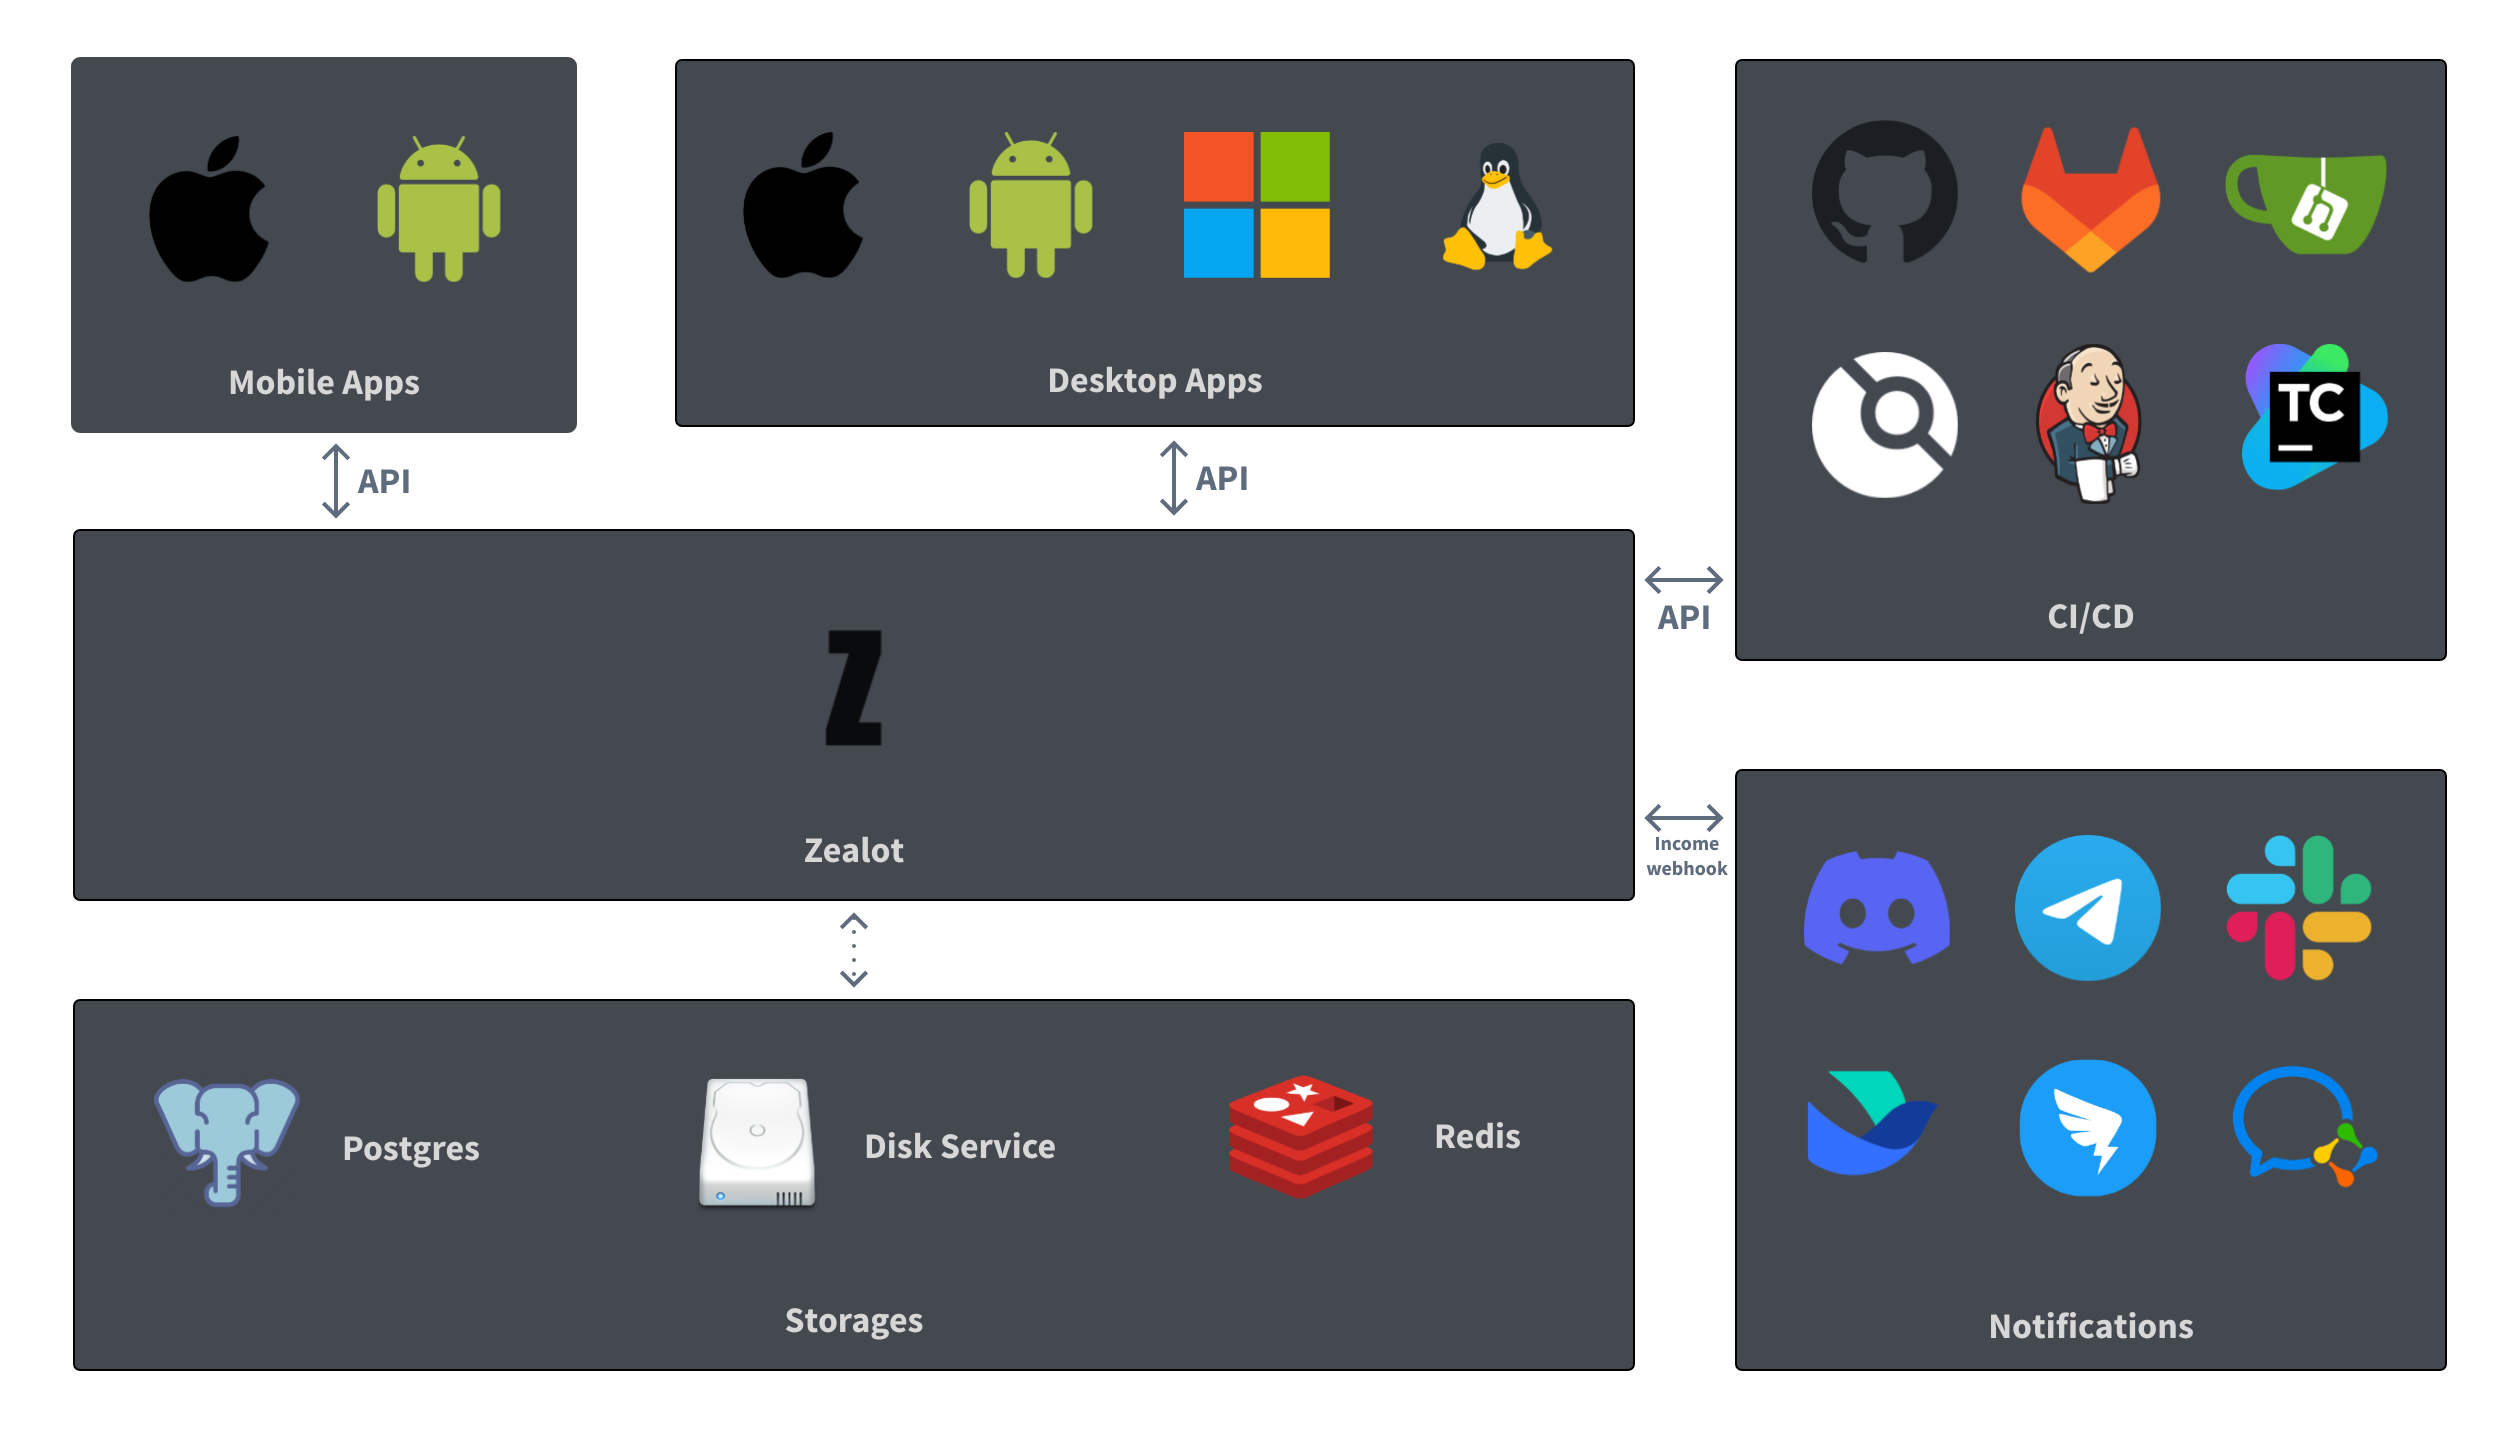
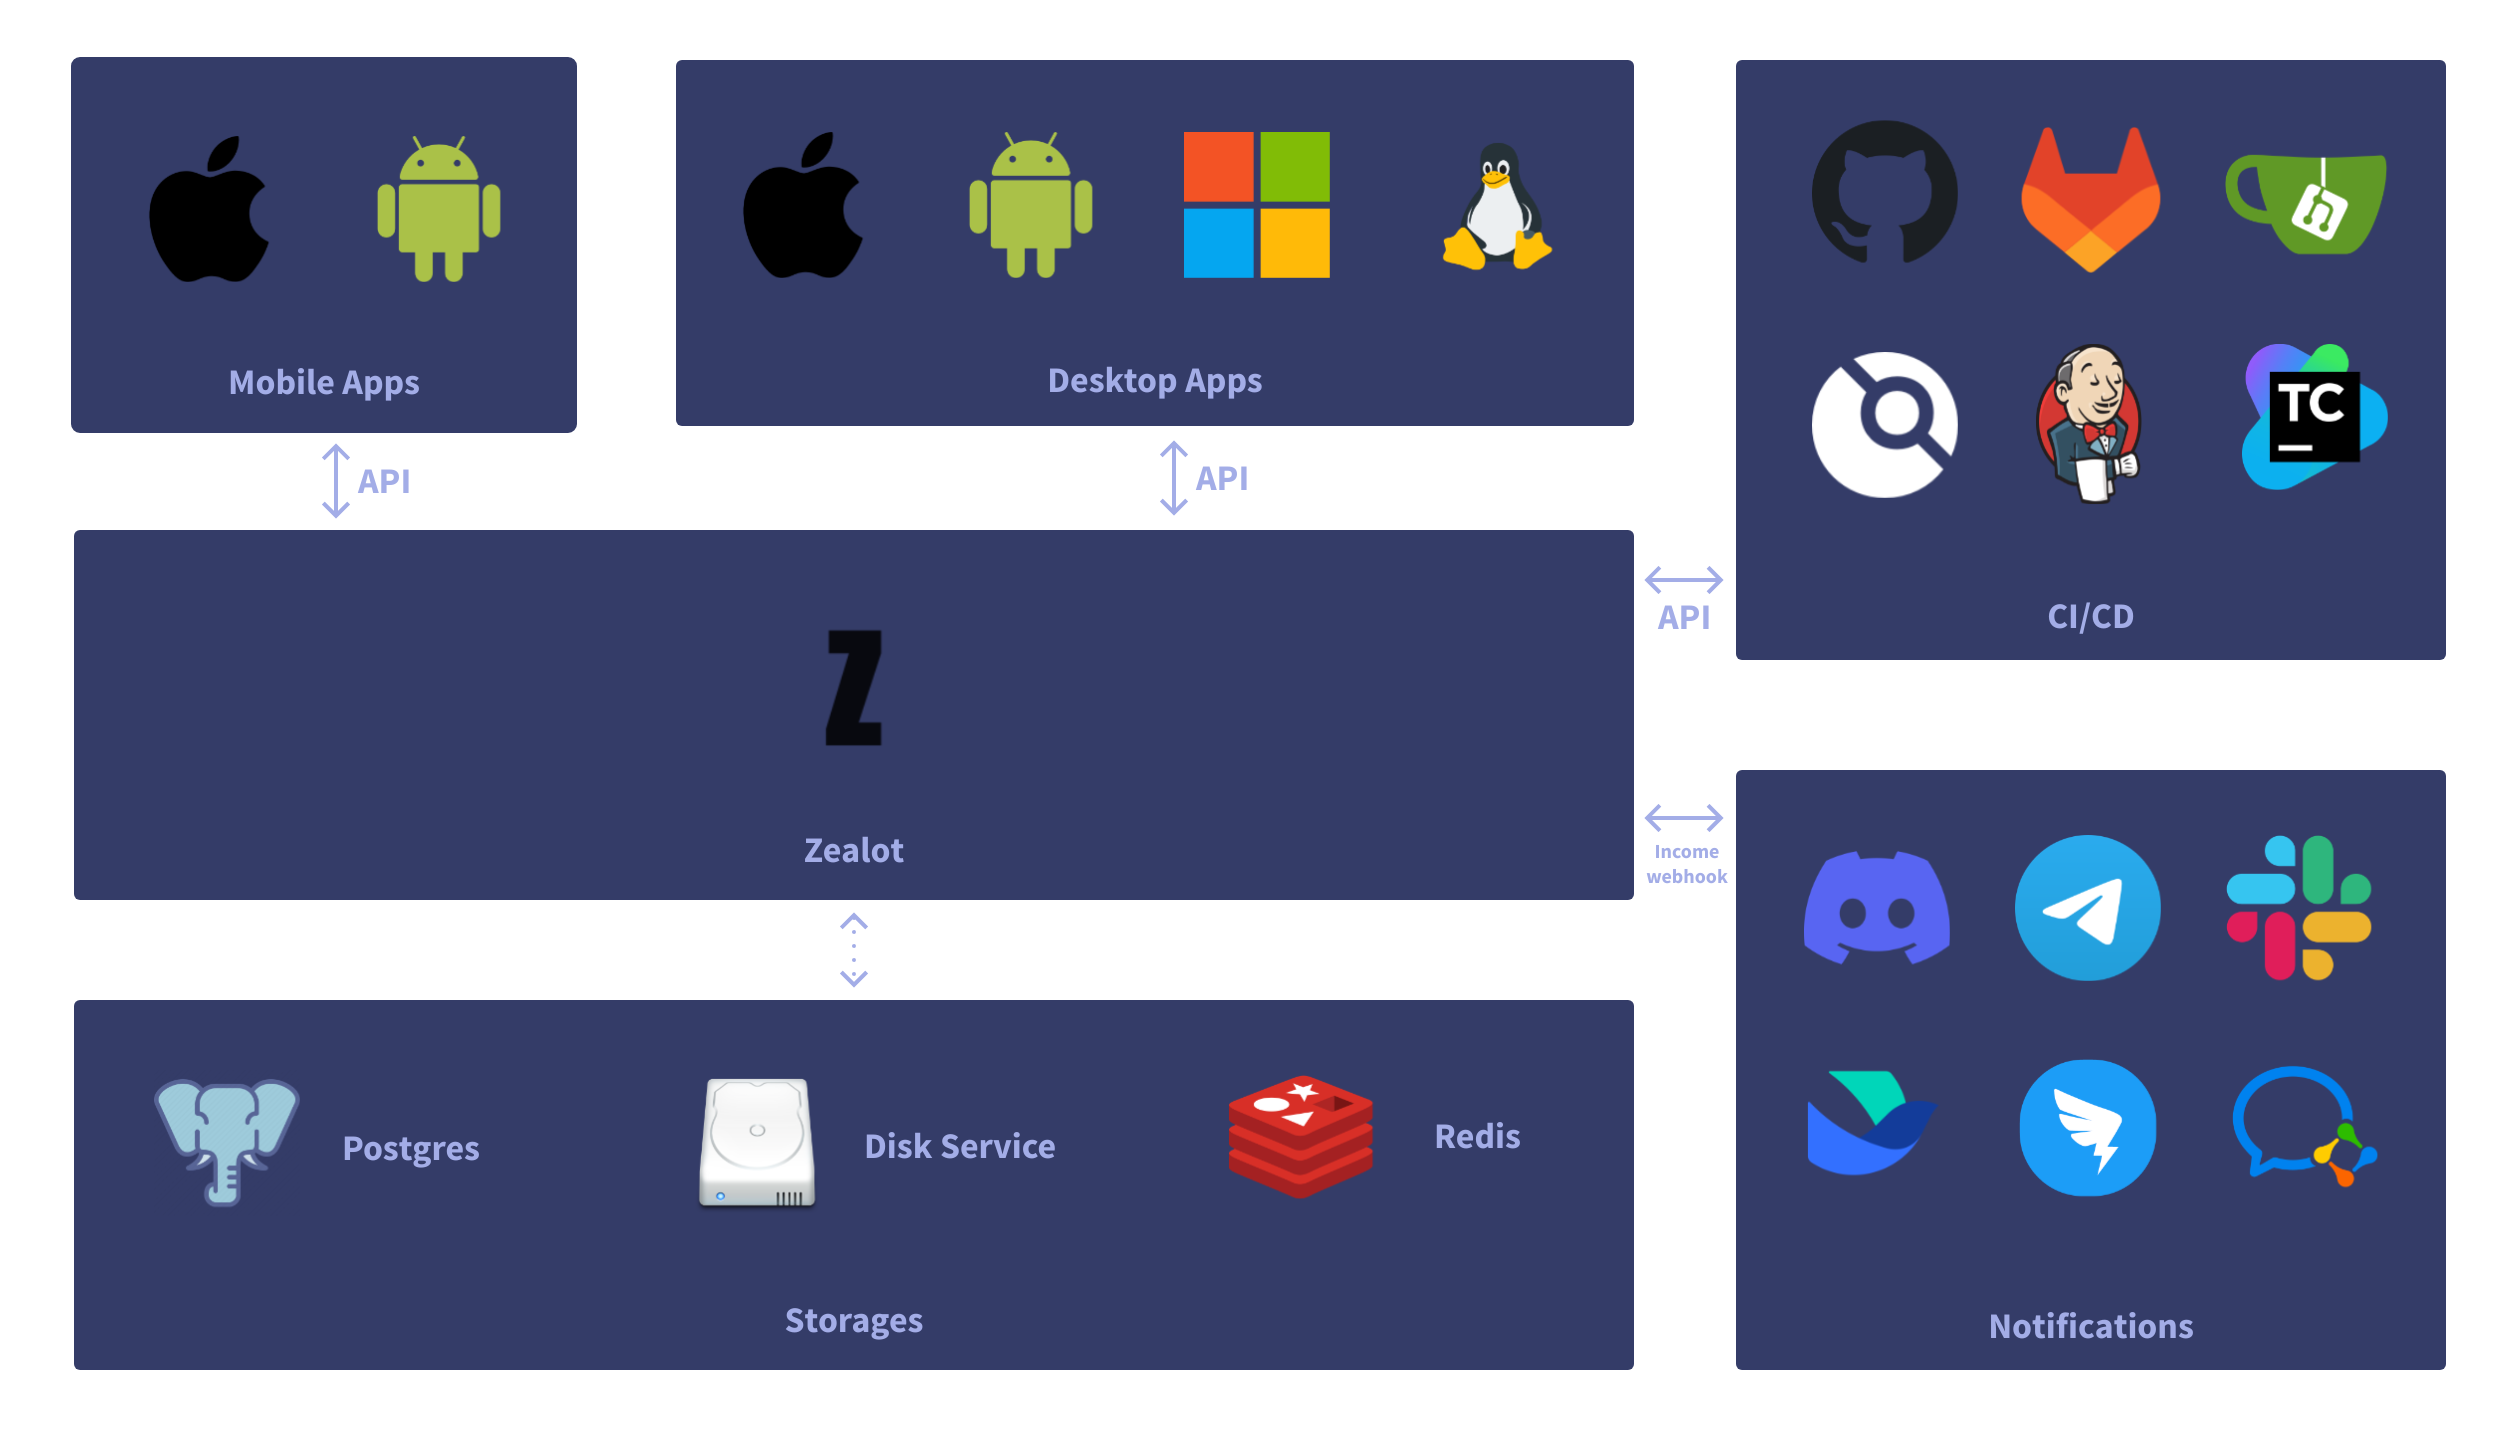
refactor: 5.0 采用新图片,新配色

diff --git a/src/css/custom.css b/src/css/custom.css
@@ -5,7 +5,7 @@
  */
 
 /* You can override the default Infima variables here. */
-:root {
+/* :root {
   --ifm-color-primary: #2e8555;
   --ifm-color-primary-dark: #29784c;
   --ifm-color-primary-darker: #277148;
@@ -15,10 +15,23 @@
   --ifm-color-primary-lightest: #3cad6e;
   --ifm-code-font-size: 95%;
   --docusaurus-highlighted-code-line-bg: rgba(88, 96, 112, 0.45);
+} */
+:root {
+  --ifm-color-primary: #4a5387;
+  --ifm-color-primary-dark: #434b79;
+  --ifm-color-primary-darker: #3f4773;
+  --ifm-color-primary-darkest: #343a5e;
+  --ifm-color-primary-light: #515b94;
+  --ifm-color-primary-lighter: #555f9b;
+  --ifm-color-primary-lightest: #656fab;
+
+  --ifm-code-font-size: 95%;
+  --docusaurus-highlighted-code-line-bg: rgba(88, 96, 112, 0.45);
 }
 
+
 /* For readability concerns, you should choose a lighter palette in dark mode. */
-[data-theme='dark'] {
+/* [data-theme='dark'] {
   --ifm-color-primary: #25c2a0;
   --ifm-color-primary-dark: #21af90;
   --ifm-color-primary-darker: #1fa588;
@@ -27,6 +40,16 @@
   --ifm-color-primary-lighter: #32d8b4;
   --ifm-color-primary-lightest: #4fddbf;
   --docusaurus-highlighted-code-line-bg: rgba(0, 0, 0, 0.3);
+} */
+
+[data-theme='dark'] {
+  --ifm-color-primary: #a3ade7;
+  --ifm-color-primary-dark: #8491df;
+  --ifm-color-primary-darker: #7483db;
+  --ifm-color-primary-darkest: #6b7bd8;
+  --ifm-color-primary-light: #c2c9ef;
+  --ifm-color-primary-lighter: #d2d7f3;
+  --ifm-color-primary-lightest: #ffffff;
 }
 
 .dropdown-separator {

diff --git a/i18n/zh-Hans/docusaurus-plugin-content-docs/current/developer-guide/index.md b/i18n/zh-Hans/docusaurus-plugin-content-docs/current/developer-guide/index.md
@@ -8,7 +8,7 @@ import useBaseUrl from '@docusaurus/useBaseUrl';
 <ThemedImage
   alt="Architecture"
   sources={{
-    light: useBaseUrl('/img/zh-Hans/developer-resources-light.png'),
-    dark: useBaseUrl('/img/zh-Hans/developer-resources-dark.png'),
+    light: useBaseUrl('/img/5.0.0/zh-Hans/developer-resources-light.png'),
+    dark: useBaseUrl('/img/5.0.0/zh-Hans/developer-resources-dark.png'),
   }}
 />

diff --git a/i18n/zh-Hans/docusaurus-plugin-content-docs/version-5.0.0/developer-guide/index.md b/i18n/zh-Hans/docusaurus-plugin-content-docs/version-5.0.0/developer-guide/index.md
@@ -8,7 +8,7 @@ import useBaseUrl from '@docusaurus/useBaseUrl';
 <ThemedImage
   alt="Architecture"
   sources={{
-    light: useBaseUrl('/img/zh-Hans/developer-resources-light.png'),
-    dark: useBaseUrl('/img/zh-Hans/developer-resources-dark.png'),
+    light: useBaseUrl('/img/5.0.0/zh-Hans/developer-resources-light.png'),
+    dark: useBaseUrl('/img/5.0.0/zh-Hans/developer-resources-dark.png'),
   }}
 />

diff --git a/docs/developer-guide/index.md b/docs/developer-guide/index.md
@@ -8,8 +8,8 @@ import useBaseUrl from '@docusaurus/useBaseUrl';
 <ThemedImage
   alt="Architecture"
   sources={{
-    light: useBaseUrl('/img/developer-resources-light.png'),
-    dark: useBaseUrl('/img/developer-resources-dark.png'),
+    light: useBaseUrl('/img/5.0.0/developer-resources-light.png'),
+    dark: useBaseUrl('/img/5.0.0/developer-resources-dark.png'),
   }}
 />
 

diff --git a/versioned_docs/version-5.0.0/developer-guide/index.md b/versioned_docs/version-5.0.0/developer-guide/index.md
@@ -8,8 +8,8 @@ import useBaseUrl from '@docusaurus/useBaseUrl';
 <ThemedImage
   alt="Architecture"
   sources={{
-    light: useBaseUrl('/img/developer-resources-light.png'),
-    dark: useBaseUrl('/img/developer-resources-dark.png'),
+    light: useBaseUrl('/img/5.0.0/developer-resources-light.png'),
+    dark: useBaseUrl('/img/5.0.0/developer-resources-dark.png'),
   }}
 />
 
